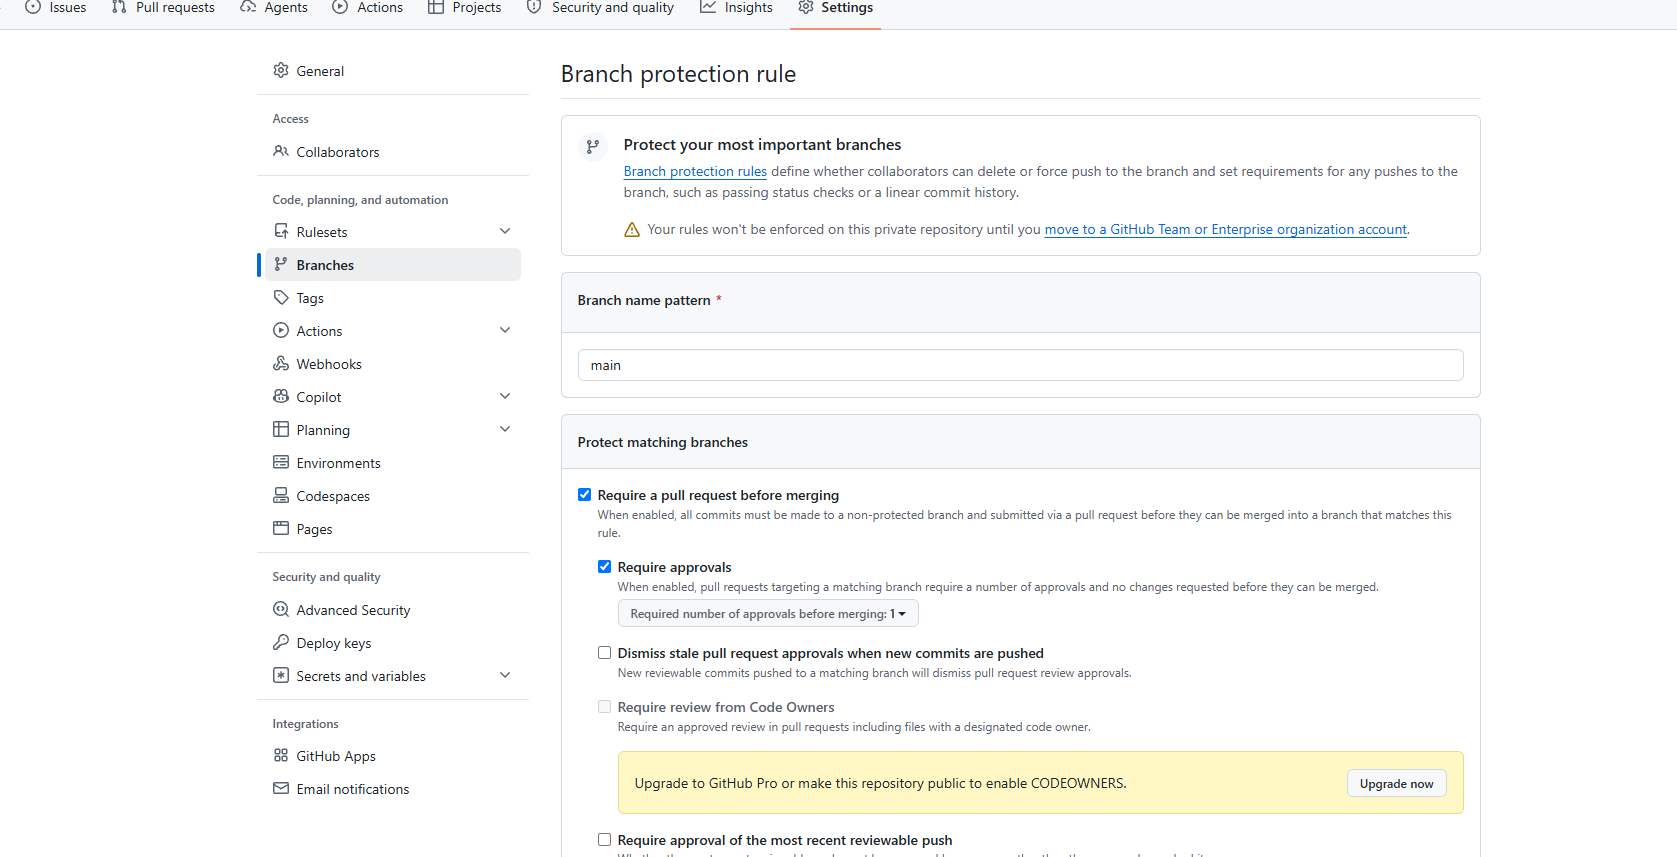
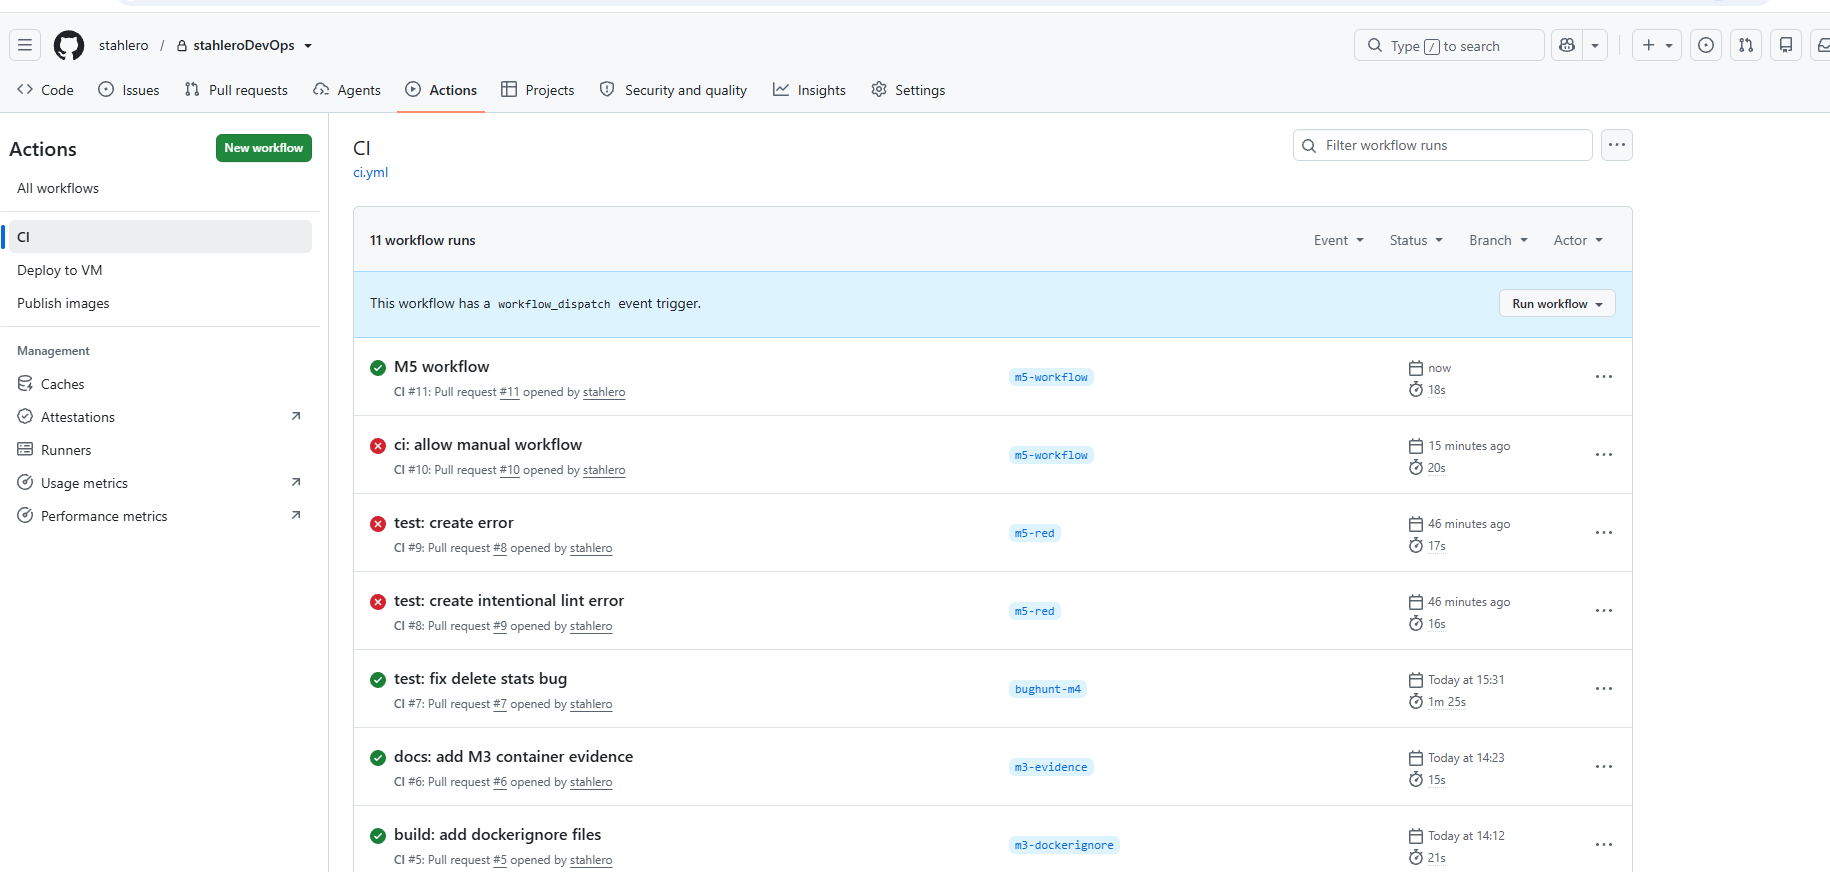
m5 and images

diff --git a/inlamning/m5-ci.md b/inlamning/m5-ci.md
@@ -1,0 +1,72 @@
+Vad jag gjorde
+
+Statuskontroll: Jag konfigurerade main-grenen så att kontrollen Lint and test backend krävs för att kunna slå ihop (merga) ändringar.
+
+
+
+Röd PR (misslyckad kontroll): Jag skapade PR med ett kodfel från Ruff och CI-kontrollen misslyckades
+
+
+
+Grön PR (godkänd kontroll): Jag rättade felet och skickade upp ändringen till samma PR. Kontrollen blev grön och godkänd, och ändringarna slogs ihop med main.
+
+
+
+Manuell start av arbetsflöde: I en ny PR lade jag till workflow\_dispatch: i .github/workflows/ci.yml. Efter att den mergats startade jag CI-flödet manuellt under GitHub Actions på main-grenen och bekräftade att det genomfördes utan fel.
+
+
+
+Röd PR
+
+Det avsiktliga linter felet från Ruff gjorde att CI-kontrollen misslyckades:
+
+
+
+F401 `os` imported but unused
+
+F404 `from \_\_future\_\_` imports must occur at the beginning of the file
+
+
+
+Found 3 errors.
+
+Error: Process completed with exit code 1.
+
+Så länge den obligatoriska kontrollen var röd var det inte möjligt att merga PR-förfrågan till main.
+
+
+
+Grön PR
+
+När felet togs bort och koden rättades, blev Lint and test backend kontrollen godkänd och grön. Därefter kunde PR mergas till main.
+
+
+
+Manuellt arbetsflöde
+
+För att kunna starta CI-flödet för hand lades följande inställning till i .github/workflows/ci.yml:
+
+
+
+YAML
+
+workflow\_dispatch:
+
+Därefter startades CI-flow manuellt från gränssnittet i GitHub Actions på main-grenen. Körningen lyckades helt utan problem.
+
+
+
+Bevis
+
+Skärmdumparna verifierar och visar:
+
+
+
+Ruff error som visades vid merge
+
+
+
+
+
+Lyckade manuella körningen av CI-flödet i GitHub Actions.
+
